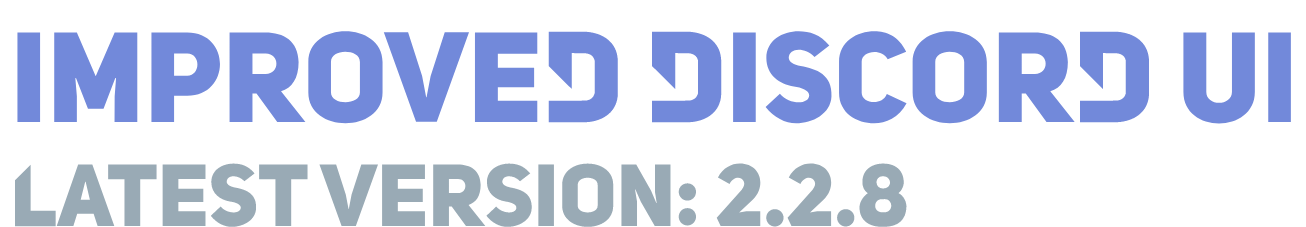
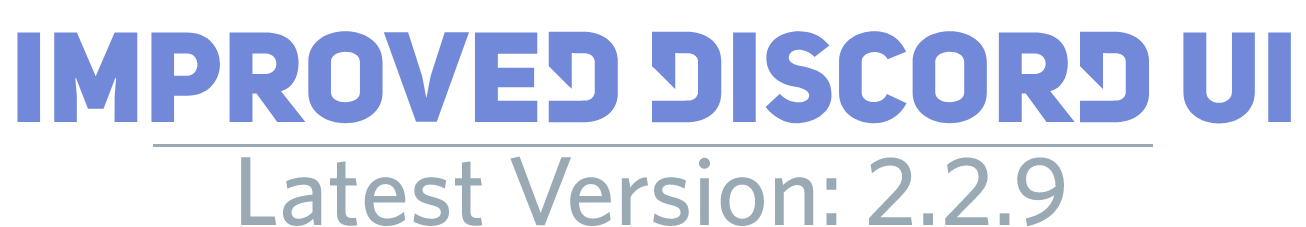
Added default folder color - v2.2.9

Changed region(s): [[0.0, 0.6784, 0.827, 1.0], [0.1225, 0.6167, 0.8882, 0.6476]]

diff --git a/base.css b/base.css
@@ -5,6 +5,7 @@
 @import url('https://discord-theme-addons.github.io/refined-user-connections/src/support/compiled.css');
 @import url("https://kckarnige.is-a.dev/custom-server-logos/base.css");
 @import url("https://kckarnige.is-a.dev/femboi_owo/discord-font.css");
+@import url('https://kckarnige.is-a.dev/server-scroll/base.css');
 @import url("https://Goose-Nest.github.io/GT-RevertRebrand/src/main.css");
 
 :root { /* Preset Colors */
@@ -14,6 +15,7 @@
     --bingus-red: #be3c41fe;
     --bandaged-blue: #3e82e5fe;
     --ping-color: #f04747fe;
+    --default-folder-color: #7289da;
 }
 
 :root { /* Radial Status CSS */
@@ -67,6 +69,17 @@
     --nitro-color: #7289DA;
     --nitro-bg-color: #7289DA29;
     --old-green-transparent: #43b58133;
+}
+.expandedFolderIconWrapper-Huv7rA > svg[style="color: rgb(88, 101, 242);"] {
+    color: var(--default-folder-color) !important;
+}
+  
+.folderIconWrapper-1_bOZe[style="background-color: rgba(88, 101, 242, 0.4);"] {
+    background-color: var(--default-folder-color) !important;
+}
+
+.colorPickerSwatch-5GX3Ve.default-cS_caM {
+    background-color: var(--default-folder-color) !important;
 }
 
 .platform-win .container-3baos1 {
@@ -138,6 +151,22 @@
     color: var(--brand-experiment);
 }
 
+/* Shrink server banners to header instead of disappearing. */
+[class*="animatedContainer-"] {
+    opacity: 1 !important;
+    transition: opacity .5s;
+}
+[class*="animatedContainer-"] > [class*="bannerImage-"] {
+    transition: margin .5s;
+}
+:not([class*="bannerVisible-"]) > [class*="animatedContainer-"] {
+    opacity: .35 !important;
+    height: 138px;
+}
+:not([class*="bannerVisible-"]) > [class*="animatedContainer-"] > [class*="bannerImage-"] {
+    margin-top: -12px;
+}
+
 .wrapper-1BJsBx.selected-bZ3Lue .childWrapper-anI2G9,
 .wrapper-1BJsBx:hover .childWrapper-anI2G9 {
     background-color: var(--main-color);
@@ -151,29 +180,24 @@
     
 .activeLink-22b0_I {
     background-color: var(--main-color) !important;
-    border-radius: 25px;
     color: #fff;
     transition:.3s;
 }
     
 .navLinkMedium-4MZo72 {
-    border-radius: 25px;
     transition:.2s;
 }
     
 .navLinkMedium-4MZo72:hover {
-    border-radius: 25px;
     background-color: #23272a
 }
     
 .filledBrand-pyfKOu {
     background: var(--main-color);
-    border-radius: 25px;
 }
     
 .filledBrand-pyfKOu:hover {
     background: var(--main-color);
-    border-radius: 25px;
     filter: brightness(75%);
     transition:.2s;
 }

diff --git a/index.user.css b/index.user.css
@@ -4,7 +4,7 @@
 @author       KayoticCarnige
 @namespace    https://github.com/kckarnige/improved-ui
 @homepageURL  https://github.com/kckarnige/improved-ui
-@version      2.2.8
+@version      2.2.9
 ==/UserStyle== */
 @-moz-document domain("discord.com"), domain("dev.fosscord.com") {
  
@@ -18,5 +18,8 @@
     --selector-color: var(--main-color);
     --tooltip-color: var(--main-color);
     --tooltip-text-color: #fff;
+    --nitro-color: #7289DA;
+    --nitro-bg-color: #7289DA29;
+    --default-folder-color: #7289DA;
 }
 }

diff --git a/improvedui.theme.css b/improvedui.theme.css
@@ -1,7 +1,7 @@
 /**
 
  * @name Improved Discord UI
- * @version 2.2.8
+ * @version 2.2.9
  * @description A simple UI improvement
  * @author KayoticCarnige
  * @source https://github.com/kckarnige/improved-ui
@@ -23,4 +23,5 @@
     --tooltip-text-color: #fff;
     --nitro-color: #7289DA;
     --nitro-bg-color: #7289DA29;
+    --default-folder-color: #7289DA;
 }

diff --git a/ArmCord.css b/ArmCord.css
@@ -8,4 +8,7 @@
     --tooltip-color: var(--main-color);
     --tooltip-text-color: #fff;
     --armcord-color: var(--main-color);
+    --nitro-color: #7289DA;
+    --nitro-bg-color: #7289DA29;
+    --default-folder-color: #7289DA;
 }

diff --git a/readme.md b/readme.md
@@ -1,6 +1,6 @@
-<a href="https://github.com/kckarnige/improved-ui">
+<h1 align="center" href="https://github.com/kckarnige/improved-ui">
 <img src="https://raw.githubusercontent.com/kckarnige/improved-ui/master/banner.png" height="75%" width="75%">
-</a><br>
+</h1><br>
 
 *I made this, first out of boredom, but now I genuinely want to make a good theme :D*
 
